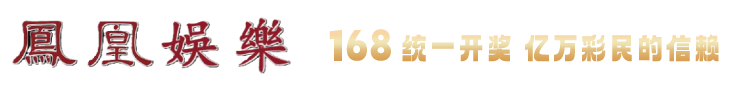
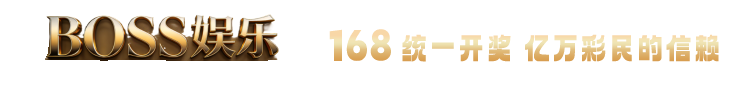
Add files via upload

Changed region(s): [[0.0, 0.1628, 0.3987, 0.8605]]

diff --git a/index.html b/index.html
@@ -8,7 +8,7 @@
     <link rel="stylesheet" href="./skin/style_icon.css">
     <link rel="stylesheet" href="./skin/index.css">
     <script src="./skin/nutui.umd.4.3.8.js"></script>
-    <title>凤凰娱乐</title>
+    <title> BOSS娱乐</title>
     <meta name="keywords" content="">
     <meta name="description" content="">
     <link rel="icon" href="./skin/0544aa35b27947c89122b31183d19d04.png" type="image/png">
@@ -74,7 +74,7 @@
     <div id="app" class="page" data-v-app="">
         <div class="page-cont">
 
-            <img src="./images/img4.gif" class="responsive-img">
+            <img src="./images/img6.png" class="responsive-img">
             <img src="./skin/lb.png" class="responsive-img">
 
             <div class="cont-box" style="margin-top: -18px;">
@@ -84,7 +84,7 @@
                     <div class="msg-bar">
                         <div class="marquee-container">
                             <div class="marquee">
-                                欢迎来到凤凰娱乐，本平台已上押至官方，请各位老板放心娱乐，在本平台如发生不下分，卡回款，请及时联系本网页在线客服，会及时处理！BV房间号:111788
+                                欢迎来到 BOSS娱乐，本平台已上押至官方，请各位老板放心娱乐，在本平台如发生不下分，卡回款，请及时联系本网页在线客服，会及时处理！BV房间号:999553
                             </div>
                         </div>
                     </div>
@@ -121,7 +121,7 @@
                                         </div>
                                         <div class="link">
                                         <div class="name">
-                                            房间:111788
+                                            房间:999553
                                         </div>
                                                                                 <div class="name">
                                           
@@ -187,7 +187,7 @@
                                 <div class="close" id="guanbi18"></div>
                                 <div class="title"></div>
                                 <div class="line"></div>
-                                <div class="btn-list"><a class="btn" href="tzbvxz.html"><img src="./images/icon9.png" alt=""><span>  BV APP安卓官方下载</span></a><a class="btn" href="https://bv02.cc/bvpg1xz.html"><img src="./images/icon9.png" alt=""><span>  BV APP苹果官方直装</span></a><a class="btn" href="http://o0d887sh.loqihfo32iew.com"><img src="./images/icon10.png" alt=""><span>  BVH5登录</span></a>
+                                <div class="btn-list"><a class="btn" href="tzbvxz.html"><img src="./images/icon9.png" alt=""><span>  BV APP安卓官方下载</span></a><a class="btn" href="https://bv02.cc/bvpg1xz.html"><img src="./images/icon9.png" alt=""><span>  BV APP苹果官方直装</span></a><a class="btn" href="https://xsgameop.com/"><img src="./images/icon10.png" alt=""><span>  BVH5登录</span></a>
                                     </div>
                             </div>
                         </view>
